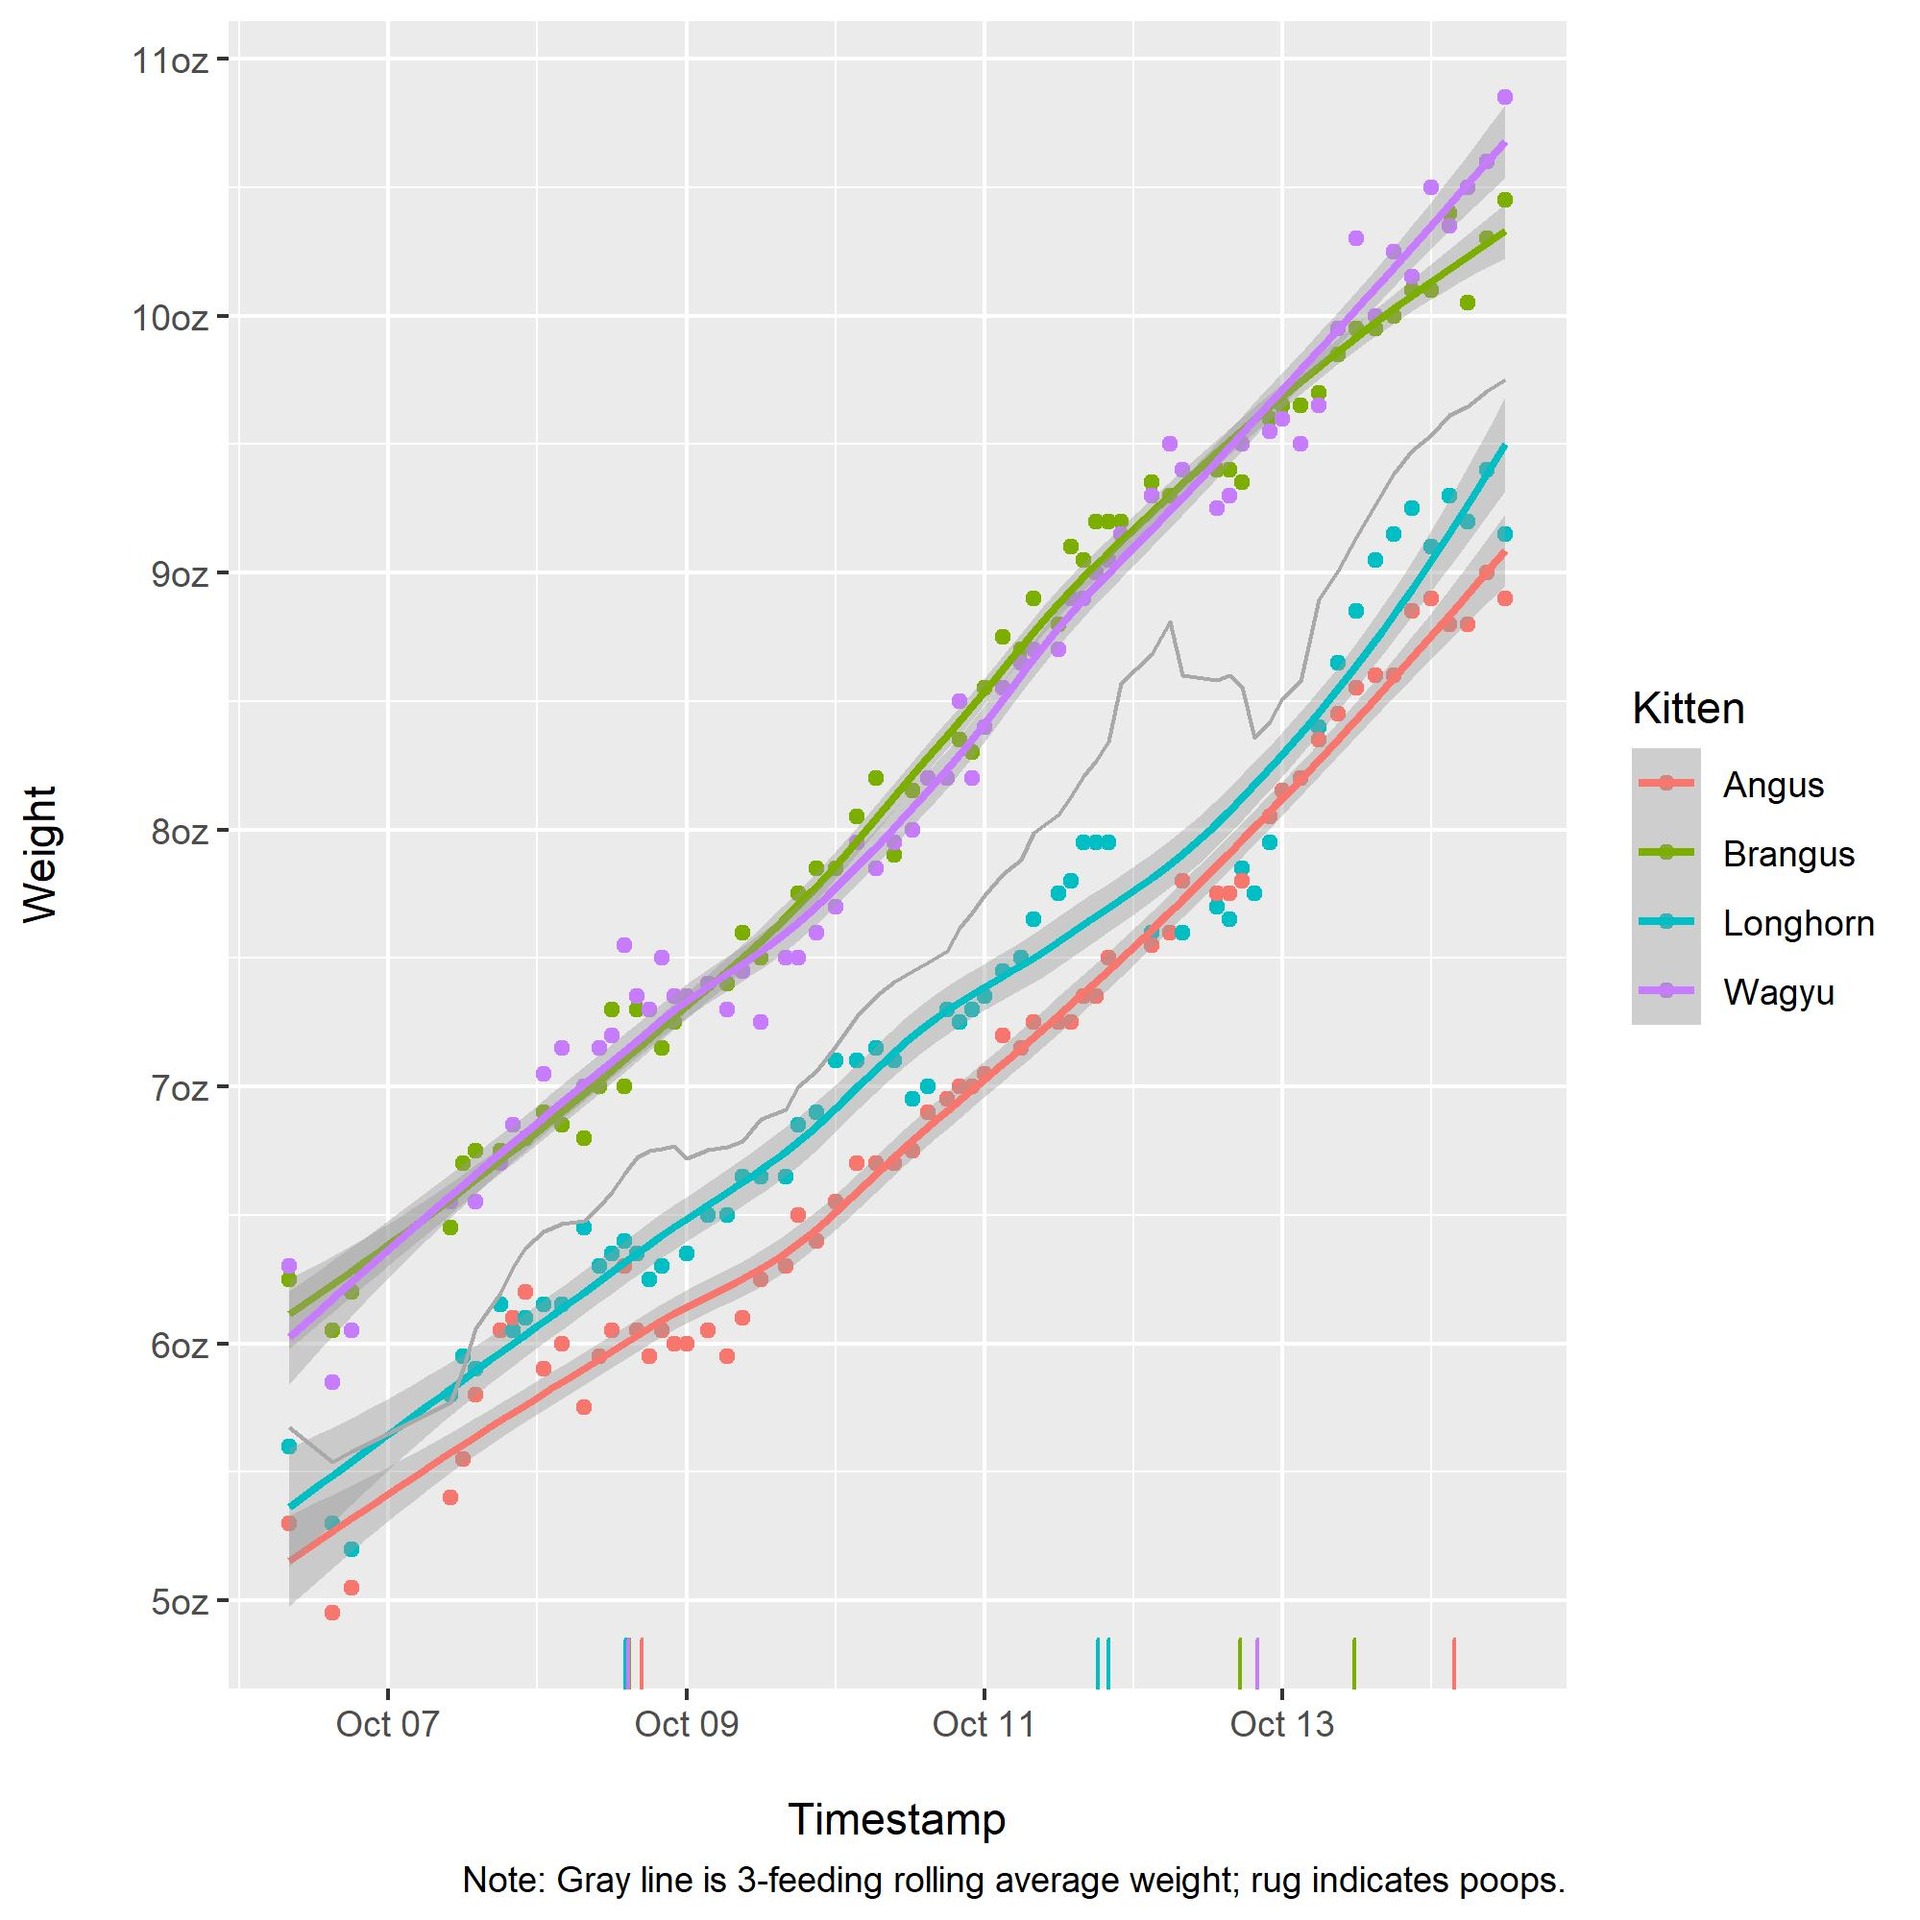
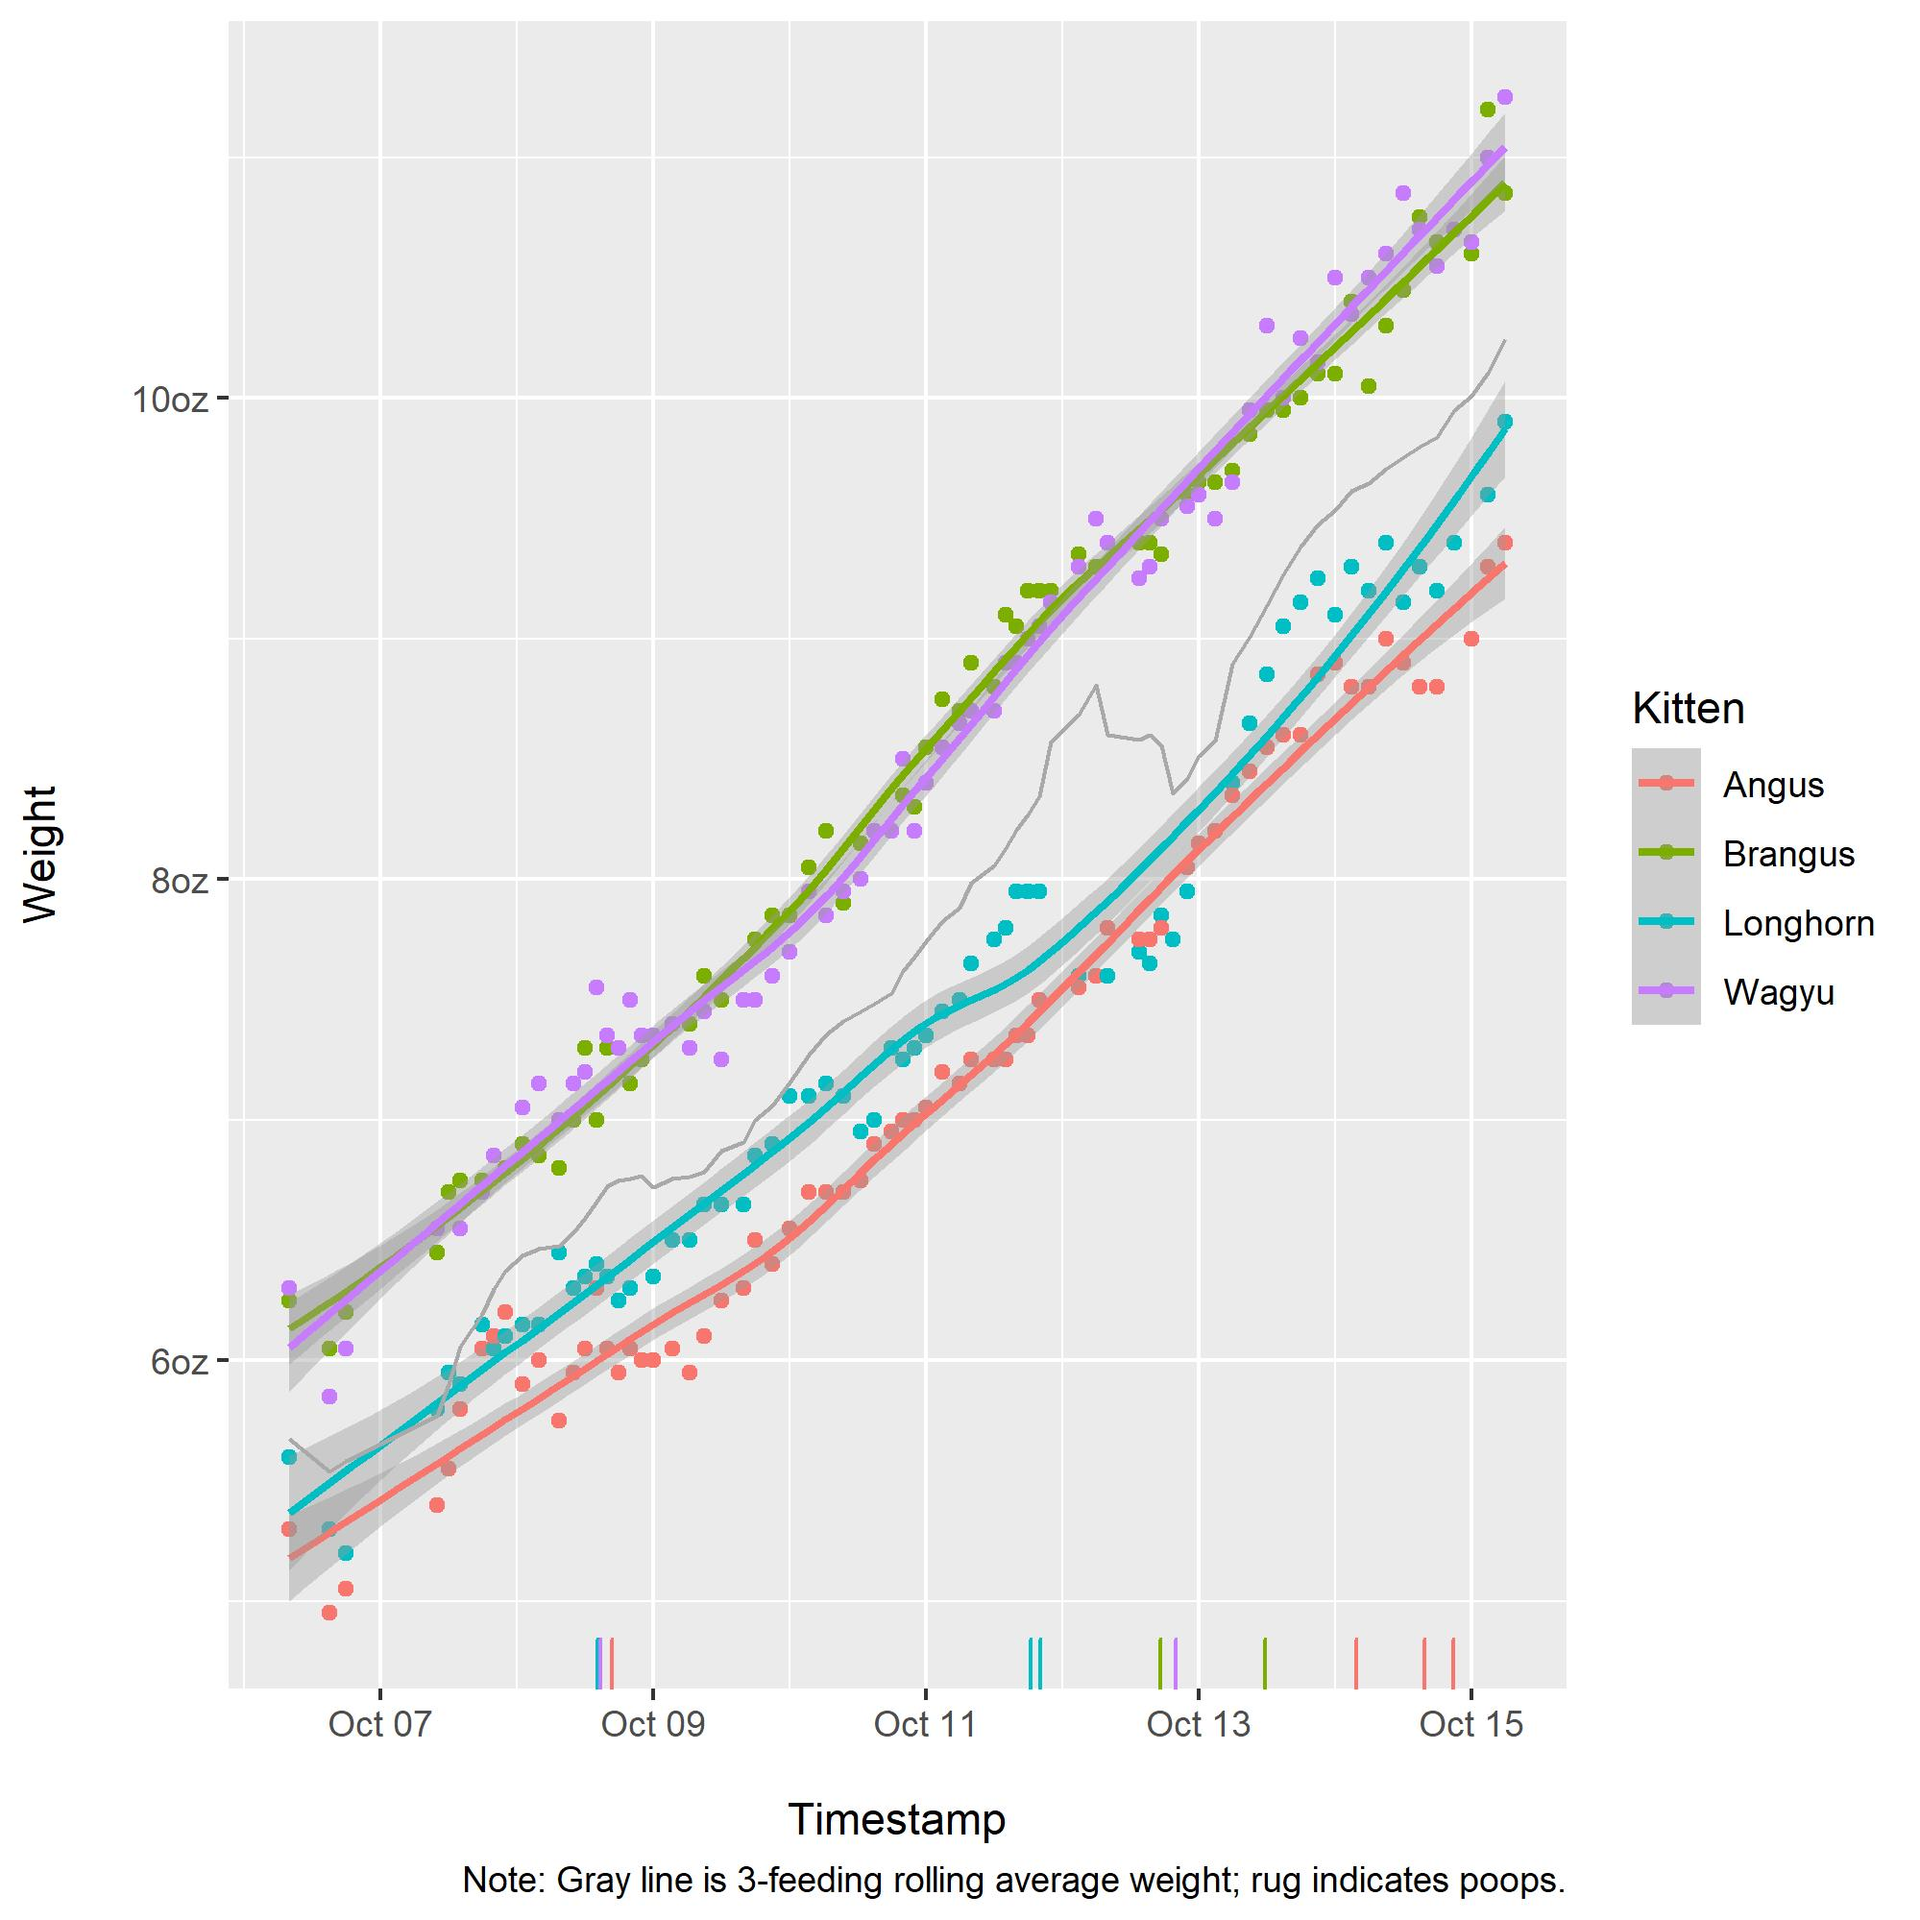
Feeding update

diff --git a/readme.md b/readme.md
@@ -44,7 +44,7 @@ Current Avg. Weight
 
 <td style="text-align:left;">
 
-9.93oz
+10.44oz
 
 </td>
 
@@ -60,7 +60,7 @@ Avg. Std. Deviation Between Kitten Weights
 
 <td style="text-align:left;">
 
-0.7oz
+0.71oz
 
 </td>
 
@@ -108,7 +108,7 @@ Avg. Time Between Feedings
 
 <td style="text-align:left;">
 
-2H 49M
+2H 50M
 
 </td>
 
@@ -124,7 +124,7 @@ Expected Avg. Weight at 3 Years of Age
 
 <td style="text-align:left;">
 
-35lb 14oz
+36lb 3oz
 
 </td>
 
